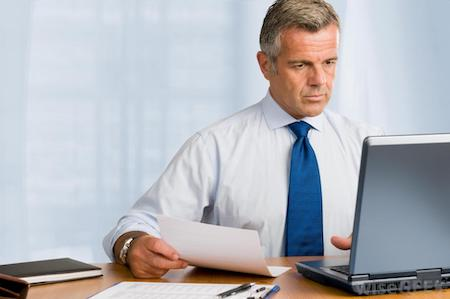
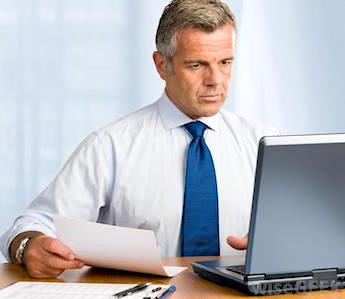
fixed some photos

diff --git a/src/components/occupations/Accountants.js b/src/components/occupations/Accountants.js
@@ -5,7 +5,7 @@ import "react-alice-carousel/lib/alice-carousel.css";
 import Lightbox from "../../components/Lightbox.js";
 import Bio from '../Bio.js'
 import accountant from '../../pics/accountant.jpeg'
-import accountant2 from '../../pics/accountant2.jpg'
+import accountant2copy from '../../pics/accountant2copy.jpg'
 import accountant3 from '../../pics/accountant3.jpg'
 import {  Element  } from 'react-scroll'
 import { JohnBio, BillBio, JillBio } from './AllBios.js'
@@ -113,7 +113,7 @@ if (e.item === 0) {
             <figure>
               <img
                 className="carimages"
-                 src={accountant} alt="Alaina"
+                 src={accountant} alt="John"
             />
               
               <figcaption> John </figcaption>
@@ -124,7 +124,7 @@ if (e.item === 0) {
             <figure>
               <img
                 className="carimages"
-                src={accountant2} alt="Edward"
+                src={accountant2copy} alt="Jill"
             />
               
               <figcaption> Jill</figcaption>
@@ -135,7 +135,7 @@ if (e.item === 0) {
             <figure>
               <img
                 className="carimages"
-                src={accountant3} alt="Florence"
+                src={accountant3} alt="Bill"
             />
               
               <figcaption> Bill </figcaption>

diff --git a/src/components/occupations/Designers.js b/src/components/occupations/Designers.js
@@ -7,8 +7,11 @@ import Bio from "../Bio";
 import designer1 from '../../pics/designer1.jpg'
 import designer2 from '../../pics/designer2.jpeg'
 import designer3 from '../../pics/designer3.jpg'
+import testcopy from '../../pics/testcopy.jpg'
 import {  Element  } from 'react-scroll'
 import { AlainaBio, EdBio, FlorenceBio } from './AllBios.js'
+import nsmall from '../../pics/nsmall.jpg'
+
 
 
 
@@ -124,7 +127,7 @@ if (e.item === 0) {
             <figure>
               <img
                 className="carimages"
-                src={designer2} alt="Edward"
+                src={nsmall}
             />
               
               <figcaption> Edward</figcaption>
